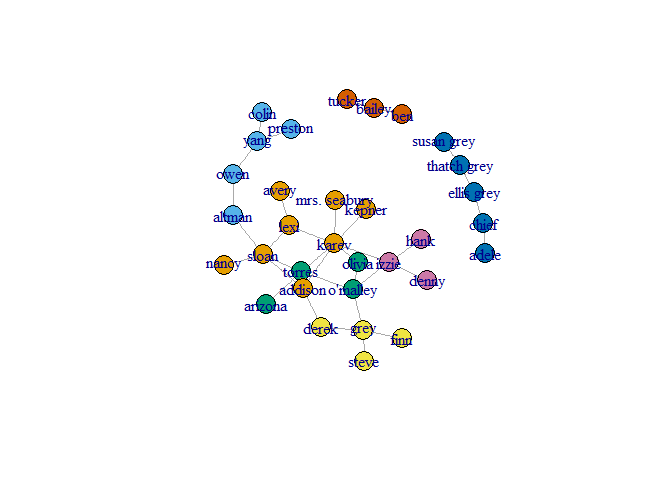
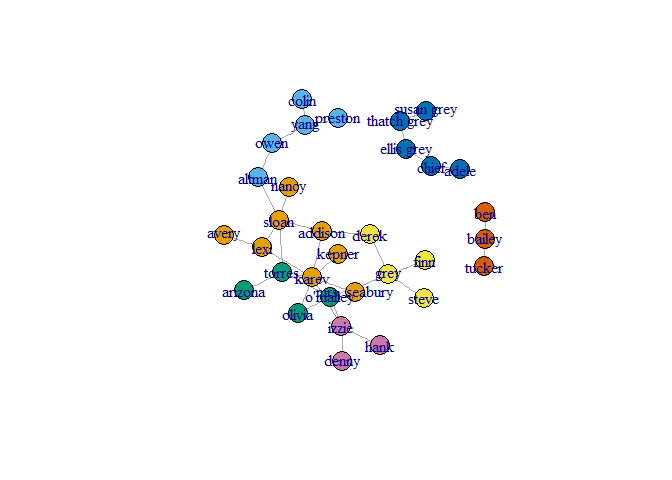
Fix node size

Changed region(s): [[0.3125, 0.1875, 0.75, 0.7812]]

diff --git a/README.md b/README.md
@@ -203,10 +203,10 @@ TwitterToken <- Authenticate("twitter", apiKey=api_key,
 
     ## [1] "Using direct authentication"
 
-Collecting 150 tweets specifying the term <%22@realDonaldTrump>" into a data frame object of class dataSource.
+Collecting 100 tweets specifying the term <%22@realDonaldTrump>" into a data frame object of class dataSource.
 
 ``` r
-myTwitterData<- Collect(searchTerm="@realDonaldTrump", numTweets=150, 
+myTwitterData<- Collect(searchTerm="@realDonaldTrump", numTweets=100, 
         writeToFile=FALSE,verbose=TRUE, credential=TwitterToken)
 ```
 
@@ -235,9 +235,9 @@ g_twitter_actor <- Create("Semantic", dataSource=myTwitterData)
 gsize(g_twitter_actor)
 ```
 
-    ## [1] 208
+    ## [1] 128
 
-1.  there are 78 nodes in the network, each node represents a term, and each edge in the graph represents co-occurence of the terms connected to it in the same tweet.
+1.  there are 128 nodes in the network, each node represents a term, and each edge in the graph represents co-occurence of the terms connected to it in the same tweet.
 
 c.plotting of the graph:
 
@@ -262,7 +262,7 @@ mb <- as.numeric(which(max(betweeness) == betweeness))
 V(g_twitter_actor)[mb]
 ```
 
-    ## + 2/70 vertices, named:
+    ## + 2/52 vertices, named:
     ## [1] realdonaldtrump trump
 
 **realdonaldtrump** has the highest betweeness measure
@@ -275,7 +275,7 @@ mc <- as.numeric(which(max(closeness) == closeness))
 V(g_twitter_actor)[mc]
 ```
 
-    ## + 2/70 vertices, named:
+    ## + 2/52 vertices, named:
     ## [1] realdonaldtrump trump
 
 **realdonaldtrump** has the highest closeness measure
@@ -290,7 +290,7 @@ me <- as.numeric(which(max(vec) == vec))
 V(g_twitter_actor)[me]
 ```
 
-    ## + 1/70 vertex, named:
+    ## + 1/52 vertex, named:
     ## [1] trump
 
 **trump** has the highest Eigencetor measure
